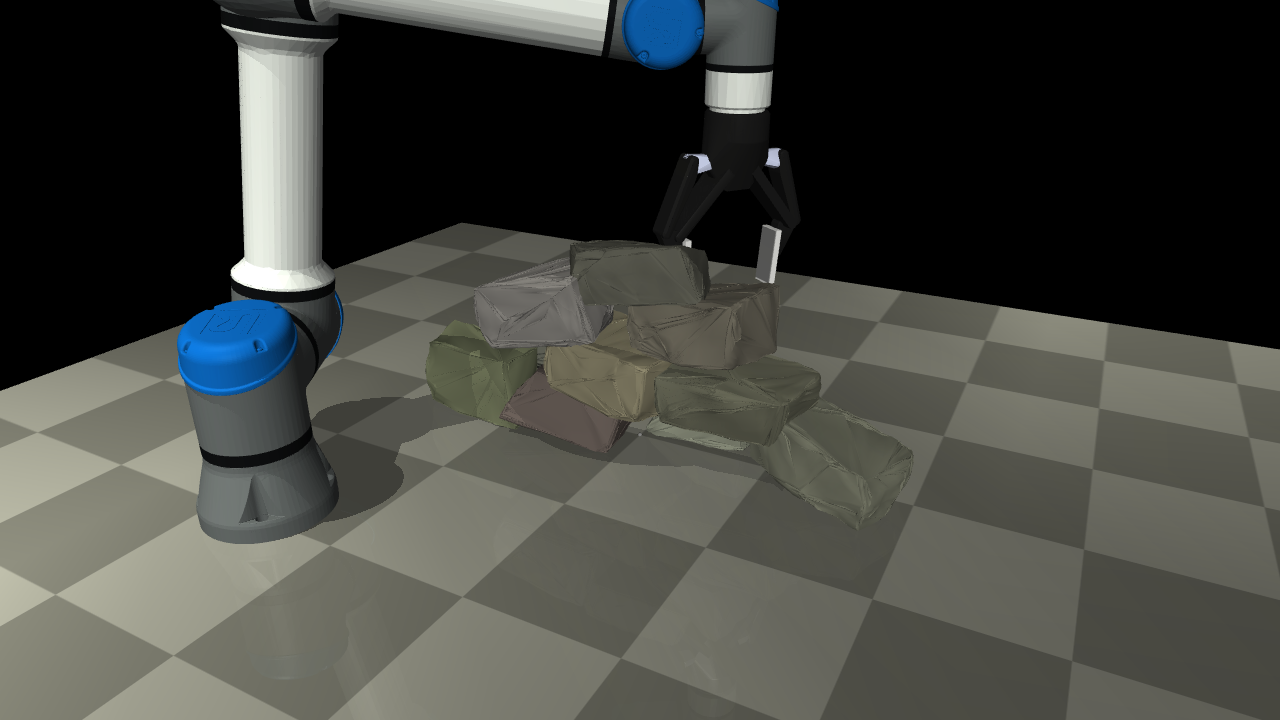
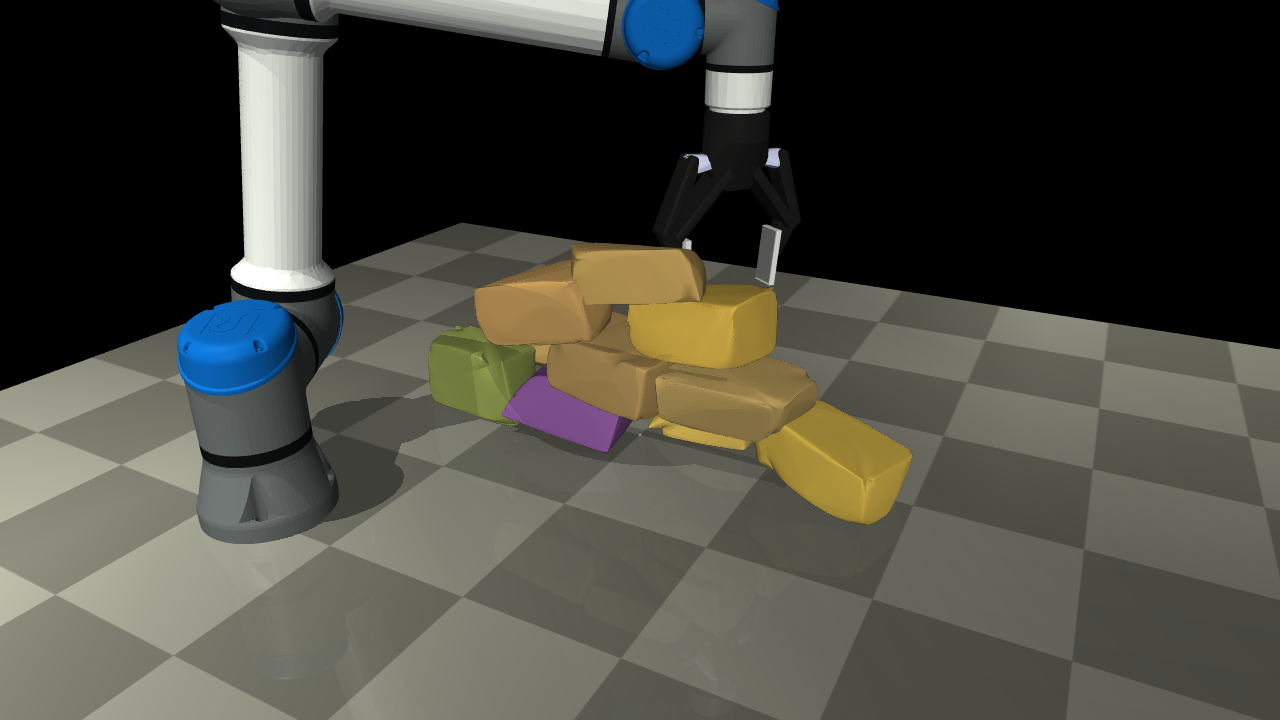
Match paper-style stone visuals

Changed region(s): [[0.3125, 0.3361, 0.7188, 0.7333]]

diff --git a/scripts/run_official_ur5e_robotiq_wall_stack.py b/scripts/run_official_ur5e_robotiq_wall_stack.py
@@ -60,8 +60,19 @@ FINGER_CONTACT_GEOMS = (
     "left_fingertip_collision",
     "right_fingertip_collision",
 )
-DEFAULT_STONE_VISUAL_ROUGHNESS = 0.004
+DEFAULT_STONE_VISUAL_ROUGHNESS = 0.0025
 DEFAULT_STONE_VISUAL_SUBDIVISIONS = 2
+DEFAULT_STONE_VISUAL_STYLE = "paper"
+PAPER_STONE_PALETTE = (
+    (0.92, 0.78, 0.18),
+    (0.48, 0.34, 0.58),
+    (0.58, 0.61, 0.33),
+    (0.70, 0.58, 0.34),
+    (0.38, 0.48, 0.60),
+    (0.68, 0.42, 0.34),
+    (0.55, 0.52, 0.43),
+    (0.82, 0.70, 0.30),
+)
 
 
 def parse_args() -> argparse.Namespace:
@@ -176,6 +187,12 @@ def parse_args() -> argparse.Namespace:
         type=int,
         default=DEFAULT_STONE_VISUAL_SUBDIVISIONS,
         help="Visual-only mesh subdivision rounds before applying surface relief.",
+    )
+    parser.add_argument(
+        "--stone-visual-style",
+        choices=("paper", "natural"),
+        default=DEFAULT_STONE_VISUAL_STYLE,
+        help="Visual-only stone material style. paper matches the smooth colored stones used in the reference figures.",
     )
     parser.add_argument(
         "--no-reset-supply-before-pick",
@@ -363,21 +380,33 @@ def stable_stone_seed(stone: FlatStone) -> int:
     return seed % (2**32)
 
 
-def stone_visual_rgba(stone: FlatStone) -> tuple[float, float, float, float]:
+def stone_visual_rgba(stone: FlatStone, visual_style: str) -> tuple[float, float, float, float]:
     rng = np.random.default_rng(stable_stone_seed(stone) + 19_381)
+    if visual_style == "paper":
+        palette_index = stable_stone_seed(stone) % len(PAPER_STONE_PALETTE)
+        rgb = np.asarray(PAPER_STONE_PALETTE[palette_index], dtype=float)
+        rgb = rgb * float(rng.uniform(0.94, 1.06)) + rng.uniform(-0.025, 0.025, size=3)
+        return tuple(float(value) for value in np.clip(rgb, 0.18, 0.95)) + (1.0,)
+
     rgb = np.asarray(stone.rgba[:3], dtype=float)
     rgb = rgb * float(rng.uniform(0.92, 1.06)) + rng.uniform(-0.018, 0.018, size=3)
     return tuple(float(value) for value in np.clip(rgb, 0.18, 0.76)) + (1.0,)
 
 
-def stone_visual_material_asset(stone: FlatStone) -> ET.Element:
+def stone_visual_material_asset(stone: FlatStone, visual_style: str) -> ET.Element:
+    if visual_style == "paper":
+        specular = "0.14"
+        shininess = "0.22"
+    else:
+        specular = "0.05"
+        shininess = "0.12"
     return ET.Element(
         "material",
         {
             "name": f"{stone.name}_rough_mat",
-            "rgba": _fmt(stone_visual_rgba(stone)),
-            "specular": "0.05",
-            "shininess": "0.12",
+            "rgba": _fmt(stone_visual_rgba(stone, visual_style)),
+            "specular": specular,
+            "shininess": shininess,
             "reflectance": "0.0",
         },
     )
@@ -387,16 +416,35 @@ def stone_visual_mesh_asset(
     stone: FlatStone,
     roughness: float,
     subdivisions: int,
+    visual_style: str,
 ) -> ET.Element:
     roughness = max(0.0, float(roughness))
     subdivisions = max(0, int(subdivisions))
+    effective_roughness = roughness
+    if visual_style == "paper":
+        # The paper/reference figures use smooth-shaded colored stones rather
+        # than noisy surface relief. Keep only a light rounded shell.
+        effective_roughness = 0.45 * roughness
     mesh = trimesh.Trimesh(
         vertices=np.asarray(stone.vertices, dtype=float),
         faces=np.asarray(stone.faces, dtype=int),
         process=False,
     )
+    source_extents = np.maximum(np.ptp(mesh.vertices, axis=0), 1.0e-9)
     for _ in range(subdivisions):
         mesh = mesh.subdivide()
+    if visual_style == "paper":
+        trimesh.smoothing.filter_laplacian(
+            mesh,
+            lamb=0.36,
+            iterations=7,
+            volume_constraint=False,
+        )
+        vertices = np.asarray(mesh.vertices, dtype=float)
+        center = 0.5 * (vertices.min(axis=0) + vertices.max(axis=0))
+        smoothed_extents = np.maximum(np.ptp(vertices, axis=0), 1.0e-9)
+        scale = (source_extents * 1.012) / smoothed_extents
+        mesh.vertices = center + (vertices - center) * scale
     mesh.fix_normals()
 
     vertices = np.asarray(mesh.vertices, dtype=float)
@@ -410,21 +458,27 @@ def stone_visual_mesh_asset(
     mean_extent = max(float(np.mean(extents)), 1.0e-9)
     directions = rng.normal(size=(5, 3))
     directions = directions / np.maximum(np.linalg.norm(directions, axis=1, keepdims=True), 1.0e-9)
-    weights = np.array([0.62, 0.48, 0.36, 0.25, 0.18], dtype=float)
-    freqs = np.array([10.0, 15.0, 22.0, 31.0, 43.0], dtype=float)
+    if visual_style == "paper":
+        weights = np.array([0.55, 0.34, 0.18, 0.0, 0.0], dtype=float)
+        freqs = np.array([6.0, 9.0, 13.0, 1.0, 1.0], dtype=float)
+        noise_scale = 0.04
+    else:
+        weights = np.array([0.62, 0.48, 0.36, 0.25, 0.18], dtype=float)
+        freqs = np.array([10.0, 15.0, 22.0, 31.0, 43.0], dtype=float)
+        noise_scale = 0.22
     phases = rng.uniform(0.0, 2.0 * math.pi, size=len(weights))
     relief = np.zeros(len(vertices), dtype=float)
     for direction, weight, freq, phase in zip(directions, weights, freqs, phases):
         relief += weight * np.sin(freq * (vertices @ direction) / mean_extent + phase)
-    relief += rng.normal(0.0, 0.22, size=len(vertices))
+    relief += rng.normal(0.0, noise_scale, size=len(vertices))
     relief -= float(np.mean(relief))
     relief /= max(float(np.max(np.abs(relief))), 1.0e-9)
 
-    base_offset = max(0.00035, 0.62 * roughness)
+    base_offset = max(0.00035, 0.62 * effective_roughness)
     displacement = np.clip(
-        base_offset + roughness * relief,
+        base_offset + effective_roughness * relief,
         0.00025,
-        base_offset + 1.12 * roughness,
+        base_offset + 1.12 * effective_roughness,
     )
     rough_vertices = vertices + normals * displacement[:, None]
 
@@ -434,7 +488,7 @@ def stone_visual_mesh_asset(
             "name": f"{stone.name}_rough_visual_mesh",
             "vertex": flatten_vertices([tuple(map(float, vertex)) for vertex in rough_vertices]),
             "face": flatten_faces([tuple(map(int, face)) for face in np.asarray(mesh.faces, dtype=int)]),
-            "smoothnormal": "false",
+            "smoothnormal": "true",
         },
     )
 
@@ -489,6 +543,7 @@ def build_wall_stack_scene(
     robot_visual: str = "clean",
     stone_visual_roughness: float = DEFAULT_STONE_VISUAL_ROUGHNESS,
     stone_visual_subdivisions: int = DEFAULT_STONE_VISUAL_SUBDIVISIONS,
+    stone_visual_style: str = DEFAULT_STONE_VISUAL_STYLE,
 ) -> str:
     _require_asset(UR5E_XML)
     _require_asset(ROBOTIQ_140_XML)
@@ -552,8 +607,15 @@ def build_wall_stack_scene(
     for stone in stones:
         asset.append(stone_mesh_asset(stone))
         if stone_visual_roughness > 0.0:
-            asset.append(stone_visual_material_asset(stone))
-            asset.append(stone_visual_mesh_asset(stone, stone_visual_roughness, stone_visual_subdivisions))
+            asset.append(stone_visual_material_asset(stone, stone_visual_style))
+            asset.append(
+                stone_visual_mesh_asset(
+                    stone,
+                    stone_visual_roughness,
+                    stone_visual_subdivisions,
+                    stone_visual_style,
+                )
+            )
 
     worldbody = ET.SubElement(root, "worldbody")
     ET.SubElement(
@@ -646,6 +708,7 @@ def prepare(args: argparse.Namespace):
         robot_visual=args.robot_visual,
         stone_visual_roughness=args.stone_visual_roughness,
         stone_visual_subdivisions=args.stone_visual_subdivisions,
+        stone_visual_style=args.stone_visual_style,
     )
     args.save_xml.parent.mkdir(parents=True, exist_ok=True)
     args.save_xml.write_text(xml, encoding="utf-8")
@@ -1190,6 +1253,7 @@ def run_execution(args: argparse.Namespace, mujoco, entries, stones, model, data
             ),
         },
         "stone_visuals": {
+            "style": args.stone_visual_style,
             "surface_roughness_m": float(args.stone_visual_roughness),
             "surface_subdivisions": int(args.stone_visual_subdivisions),
             "collision_note": "rough visual meshes are massless and collision-disabled; original convex meshes still provide contact, mass, and friction",
@@ -1225,6 +1289,7 @@ def main() -> int:
                     "xml": str(args.save_xml),
                     "planner_report": str(args.report),
                     "planner_final_height_m": report.get("final_height_m"),
+                    "stone_visual_style": args.stone_visual_style,
                     "stone_visual_roughness_m": float(args.stone_visual_roughness),
                     "stone_visual_subdivisions": int(args.stone_visual_subdivisions),
                 },

diff --git a/README.md b/README.md
@@ -63,10 +63,10 @@ Implemented:
 - Procedural irregular stones using subdivision, truncated-normal vertex
   displacement, convex hull reconstruction, OBB alignment, and randomized
   density.
-- Visual-only stone surface relief for the verified execution demo. The
+- Paper-style visual stone meshes for the verified execution demo. The
   original convex meshes still provide contact, mass, friction, and stability;
-  the outer rough meshes make the stones look less like smooth blocks in the
-  MuJoCo viewer.
+  the outer visual meshes use smooth normals and colored material styling so
+  the viewer resembles the reference paper figures.
 - Stability-based course planning for `3,2,1` smoke tests and `4,3,2,1`
   four-course walls.
 - Truth-state object and target-pose search in MuJoCo.
@@ -185,7 +185,8 @@ python scripts/run_official_ur5e_robotiq_wall_stack.py \
   --contact-aware-place \
   --settle-time 1.20 \
   --robot-visual clean \
-  --stone-visual-roughness 0.0045 \
+  --stone-visual-style paper \
+  --stone-visual-roughness 0.0025 \
   --stone-visual-subdivisions 2 \
   --view
 ```
@@ -194,10 +195,12 @@ The MuJoCo viewer will show the robot grasping, transporting, releasing, and
 vertically retreating from ten irregular stones in a `4 + 3 + 2 + 1`
 dry-stone wall.
 
-The two `--stone-visual-*` parameters only change the rendered stone surface.
-They do not change the collision mesh used for grasping and stacking. Increase
-`--stone-visual-roughness` slightly, for example to `0.006`, if you want a more
-aggressive visual surface relief for screenshots.
+The `--stone-visual-*` parameters only change rendering. They do not change the
+collision mesh used for grasping and stacking. The default `paper` visual style
+uses smooth normals and saturated per-stone colors, matching the reference
+figures more closely than a noisy gray rock material. Use
+`--stone-visual-style natural --stone-visual-roughness 0.006` if you want a
+rougher gray stone look for screenshots.
 
 ## Headless Verification
 
@@ -215,7 +218,8 @@ python scripts/run_official_ur5e_robotiq_wall_stack.py \
   --contact-aware-place \
   --settle-time 1.20 \
   --robot-visual clean \
-  --stone-visual-roughness 0.0045 \
+  --stone-visual-style paper \
+  --stone-visual-roughness 0.0025 \
   --stone-visual-subdivisions 2 \
   --save-xml outputs/official_ur5e_robotiq_paper_light_4_3_2_1_10.xml \
   --output-json reports/official_ur5e_robotiq_paper_light_4_3_2_1_10.json
@@ -343,8 +347,9 @@ The verified demo uses the `paper` rock style from
 generated from a rectangular prism by subdivision, truncated-normal vertex
 displacement, convex hull reconstruction, and oriented-bounding-box alignment.
 The resulting convex surface participates in MuJoCo contact. For the verified
-viewer demo, an additional massless, collision-disabled visual mesh adds
-millimeter-scale surface relief so the stones read as rough natural rocks
+viewer demo, an additional massless, collision-disabled visual mesh provides
+the paper-style appearance: smooth shading, colored stone materials, and only
+light millimeter-scale relief. This changes how the stones look in the viewer
 without changing the already validated grasping and stacking dynamics.
 
 The `natural` style is also available: